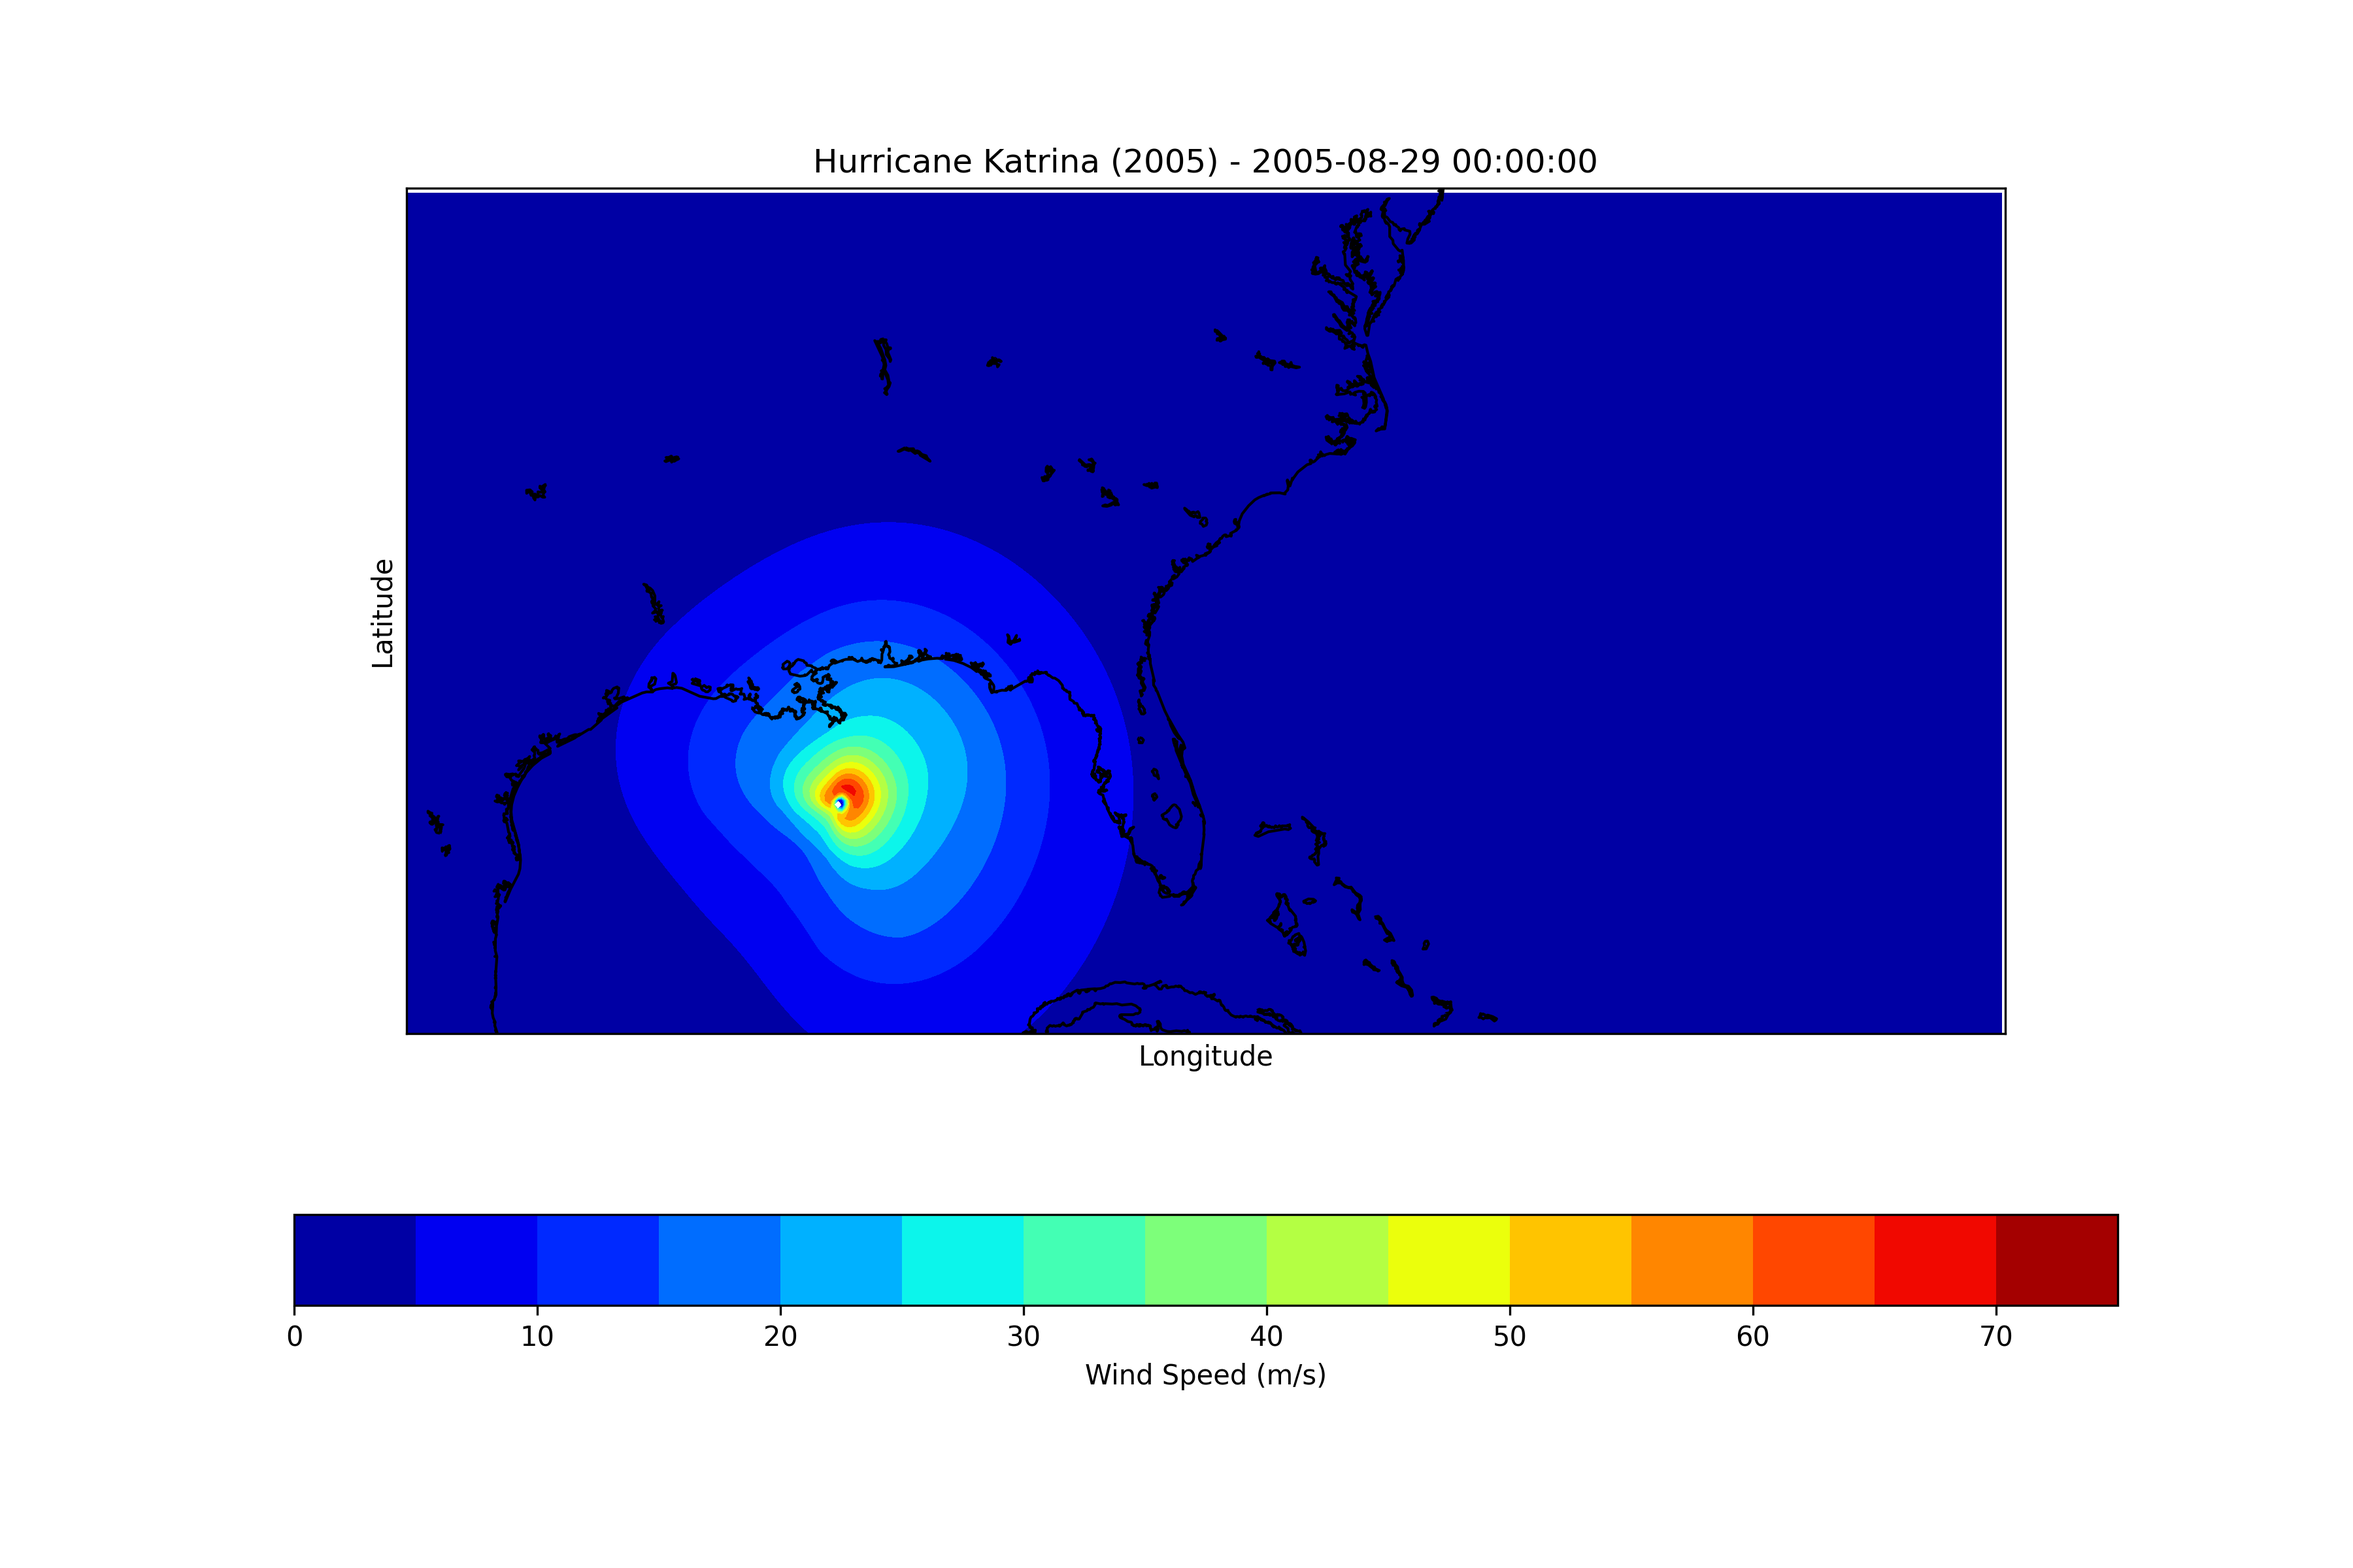
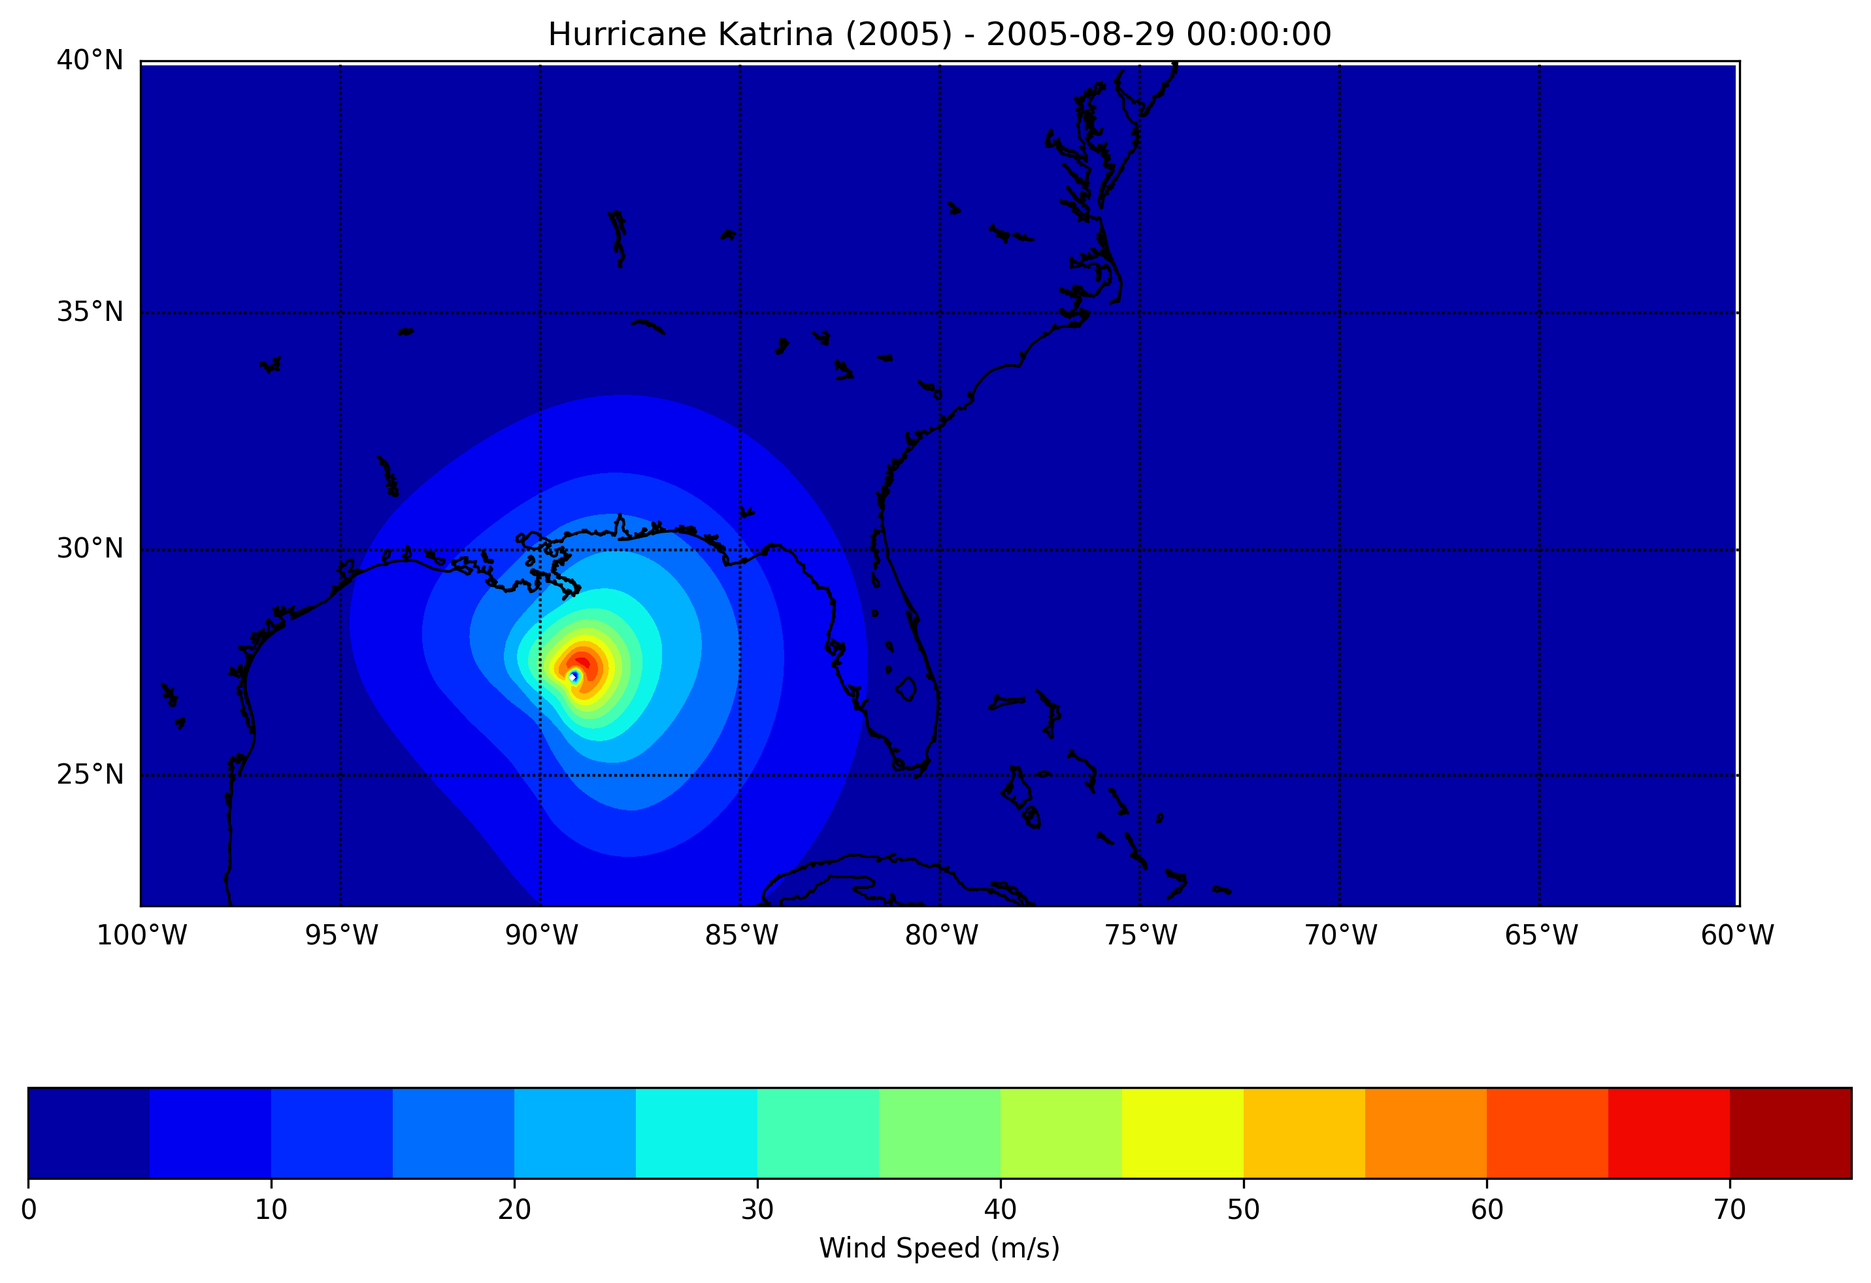
Updating python ex1

diff --git a/examples/ex1_katrina.py b/examples/ex1_katrina.py
@@ -155,8 +155,7 @@ def main():
         ax.set_title(
             "Hurricane Katrina (2005) - {:s}".format(time.strftime("%Y-%m-%d %H:%M:%S"))
         )
-        ax.set_xlabel("Longitude")
-        ax.set_ylabel("Latitude")
+
         m = Basemap(
             projection="merc",
             llcrnrlon=-100.0,
@@ -181,12 +180,15 @@ def main():
             latlon=True,
         )
         m.drawcoastlines()
+        m.drawparallels(np.arange(10, 50, 5), labels=[1, 0, 0, 0])
+        m.drawmeridians(np.arange(-120, -40, 5), labels=[0, 0, 0, 1])
+
         cbar = fig.colorbar(cs, ax=ax, orientation="horizontal")
         if args.type == "pressure":
             cbar.set_label("Pressure (mb)")
         else:
             cbar.set_label("Wind Speed (m/s)")
-        plt.savefig(args.output, dpi=300)
+        plt.savefig(args.output, dpi=300, bbox_inches="tight")
 
     if args.interactive:
         interactive()
